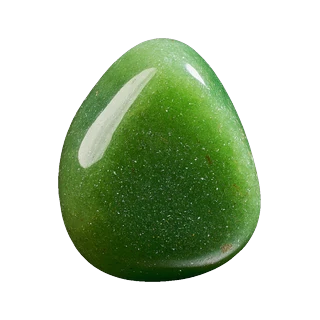
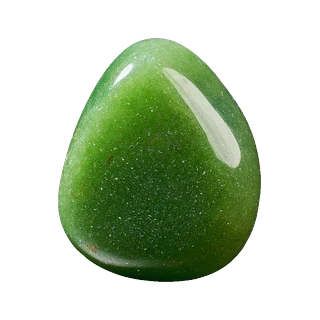
아벤츄린·셀레나이트 좌우 반전 (하이라이트 좌상단으로 통일)

Changed region(s): [[0.1562, 0.0938, 0.8125, 0.9062], [0.5, 0.7812, 0.5312, 0.8125]]

diff --git a/scripts/process_stones.py b/scripts/process_stones.py
@@ -42,6 +42,8 @@ WEBP_QUALITY = 90
 # 돌별 전처리 (파일명 → 처리 이름 목록)
 SPECIAL = {
     "clear-quartz": ["mirror"],
+    "aventurine": ["mirror"],   # 하이라이트를 좌상단으로 (다른 돌과 조명 방향 통일)
+    "selenite": ["mirror"],
     "obsidian": ["despeckle", "transpose"],
 }
 
